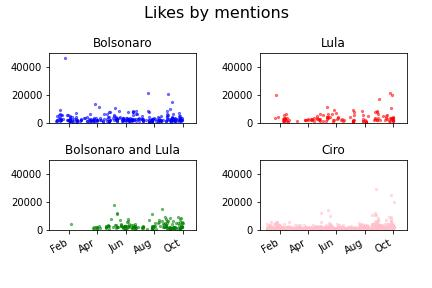
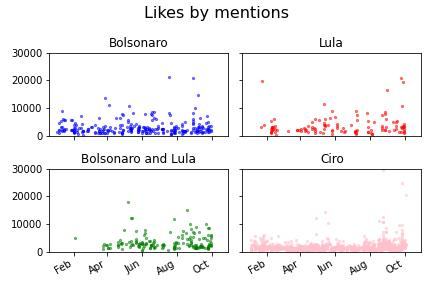
add plot function to distinguish charts

diff --git a/twitter_analytics_-_ciro_gomes.py b/twitter_analytics_-_ciro_gomes.py
@@ -1,5 +1,7 @@
 # Ciro Analytics
 
+# TO IMPROVE: separate responsibilities
+
 
 import pandas as pd
 import matplotlib.pyplot as plt
@@ -16,69 +18,101 @@ df = pd.read_excel(r'df_tweets.xlsx')
 df['tweet'] = df['tweet'].str.lower()
 
 
-column_names = ["date", "user", "tweet", "hashtags", 
-                "retweets", "replys", "likes", "quotes"]
-
-
-
-df_both_candidates = pd.DataFrame(columns=column_names)
-df_bolsonaro = pd.DataFrame(columns=column_names)
-df_lula = pd.DataFrame(columns=column_names)
-df_ciro = pd.DataFrame(columns=column_names)
-
-
-
-
-for index, row in df.iterrows():
     
-    if ("lula" in row['tweet']) and ("bolsonaro" in row['tweet']):
-        df_both_candidates.loc[len(df_both_candidates.index)] = row
-
-    elif "lula" in row['tweet']:
-        df_lula.loc[len(df_lula.index)] = row
+def to_plot(df, ylimit):
     
-    elif "bolsonaro" in row['tweet']:
-        df_bolsonaro.loc[len(df_bolsonaro.index)] = row
+    column_names = ["date", "user", "tweet", "hashtags", 
+                    "retweets", "replys", "likes", "quotes"]
     
-    elif "ciro" in row['tweet']:
-        df_ciro.loc[len(df_ciro.index)] = row
+    df_both_candidates = pd.DataFrame(columns=column_names)
+    df_bolsonaro = pd.DataFrame(columns=column_names)
+    df_lula = pd.DataFrame(columns=column_names)
+    df_ciro = pd.DataFrame(columns=column_names)
+    
+    for index, row in df.iterrows():
+        
+        if ("lula" in row['tweet']) and ("bolsonaro" in row['tweet']):
+            df_both_candidates.loc[len(df_both_candidates.index)] = row
+    
+        elif "lula" in row['tweet']:
+            df_lula.loc[len(df_lula.index)] = row
+        
+        elif "bolsonaro" in row['tweet']:
+            df_bolsonaro.loc[len(df_bolsonaro.index)] = row
+        
+        elif "ciro" in row['tweet']:
+            df_ciro.loc[len(df_ciro.index)] = row
+    
+    # TO IMPROVE: change x and y varaibles structure
+    
+    fig, axs = plt.subplots(2, 2, sharex=True, sharey=True)
+    
+    x = df_bolsonaro['date']
+    y = df_bolsonaro['likes']
+    axs[0, 0].scatter(x, y, color='blue', alpha=0.5, marker=".", s=20)
+    axs[0, 0].set_title('Bolsonaro')
+    
+    x = df_lula['date']
+    y = df_lula['likes']
+    axs[0, 1].scatter(x, y, color='red', alpha=0.5, marker=".", s=20)
+    axs[0, 1].set_title('Lula')
+    
+    x = df_both_candidates['date']
+    y = df_both_candidates['likes']
+    axs[1, 0].scatter(x, y, color='green', alpha=0.5, marker=".", s=20)
+    axs[1, 0].set_title('Bolsonaro and Lula')
+    
+    x = df_ciro['date']
+    y = df_ciro['likes']
+    axs[1, 1].scatter(x, y, color='pink', alpha=0.5, marker=".", s=20)
+    axs[1, 1].set_title('Ciro')
+    
+    fig.suptitle('Likes by mentions', fontsize=16)
+    fig.autofmt_xdate()
+    
+    for ax in axs.flat:
+        ax.set_xlim([datetime.date(2021, 12, 20), datetime.date(2022, 10, 30)])
+        ax.xaxis.set_major_formatter(mdates.DateFormatter('%b'))
+        ax.xaxis.set_major_locator(mdates.MonthLocator(interval=2))
+    
+    plt.setp(axs, ylim=(0, ylimit))
+    plt.tight_layout()
+        
+
+ylimit = 50000
+to_plot(df, ylimit)
+
+plt.savefig("twitter_analytic_election_ciro_gomes_likes_by_mentions_with_outlier.jpg")
+        
 
 
 
 
+# TO IMPROVE: cut outlier
+df_withoutlier = df.loc[df['likes'] < 40000]
 
-fig, axs = plt.subplots(2,2)
-
-x = df_bolsonaro['date']
-y = df_bolsonaro['likes']
-axs[0, 0].scatter(x, y, color='blue', alpha=0.5, marker=".", s=20)
-axs[0, 0].set_title('Bolsonaro')
-
-x = df_lula['date']
-y = df_lula['likes']
-axs[0, 1].scatter(x, y, color='red', alpha=0.5, marker=".", s=20)
-axs[0, 1].set_title('Lula')
-
-x = df_both_candidates['date']
-y = df_both_candidates['likes']
-axs[1, 0].scatter(x, y, color='green', alpha=0.5, marker=".", s=20)
-axs[1, 0].set_title('Bolsonaro and Lula')
-
-x = df_ciro['date']
-y = df_ciro['likes']
-axs[1, 1].scatter(x, y, color='pink', alpha=0.5, marker=".", s=20)
-axs[1, 1].set_title('Ciro')
-
-fig.suptitle('Likes by mentions', fontsize=16)
-fig.tight_layout()
-fig.autofmt_xdate()
-for ax in axs.flat:
-    ax.set_xlim([datetime.date(2021, 12, 20), datetime.date(2022, 10, 30)])
-    ax.xaxis.set_major_formatter(mdates.DateFormatter('%b'))
-    ax.xaxis.set_major_locator(mdates.MonthLocator(interval=2))
-
-plt.setp(axs, ylim=(0, 50000))
-
+ylimit = 32000
+to_plot(df_withoutlier, ylimit)
 
 plt.savefig("twitter_analytic_election_ciro_gomes_likes_by_mentions.jpg")
+     
+
+
+
+
+# TO IMPROVE: limit data from october
+start_date = "2022-09-01"
+end_date = "2022-10-03"
+
+period = (df['date'] >= start_date) & (df['date'] <= end_date)
+df_october = df.loc[period]
+
+
+ylimit = 28000
+to_plot(df_october, ylimit)
+
+plt.savefig("twitter_analytic_election_ciro_gomes_likes_by_mentions_october.jpg")
+
+
+
 
